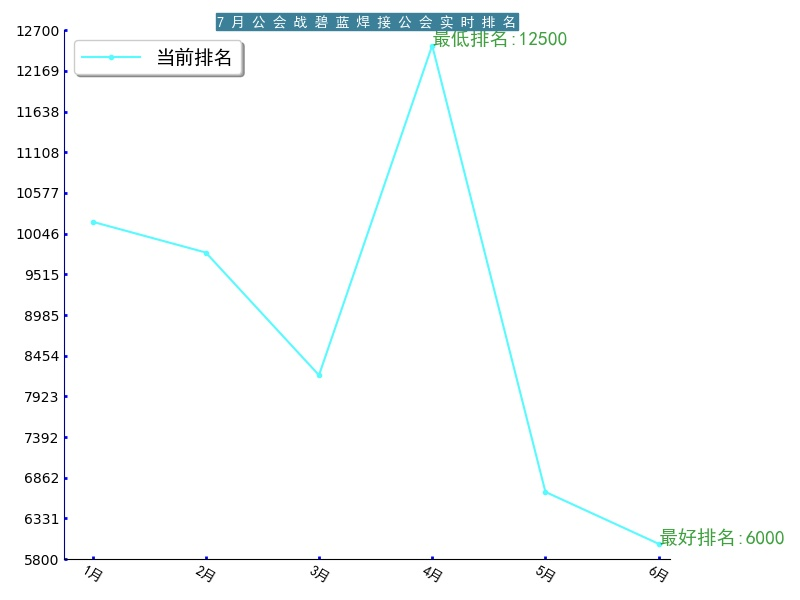
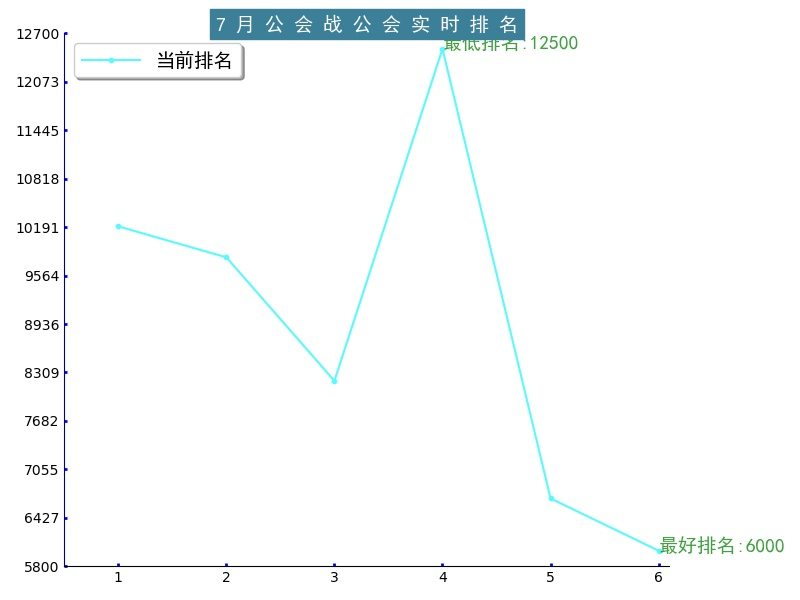
修正了若干bug

diff --git a/pcr/plugins/record_send/__init__.py b/pcr/plugins/record_send/__init__.py
@@ -8,7 +8,7 @@ from nonebot.command.argfilter import extractors, validators
 from nonebot import on_natural_language, NLPSession, IntentCommand
 
 
-@on_command('change_character', aliases=('更换声源', '换声', '修改声源', '选择声源'), only_to_me=False, permission=perm.SUPERUSER)
+@on_command('change_character', aliases=('更换声源', '换声', '修改声源', '选择声源'), only_to_me=False)
 async def change_character(session: CommandSession):
     group_id = session.event.group_id
     file_name = os.path.join(os.path.dirname(__file__), 'recording.json').replace('\\', '/')
@@ -92,37 +92,39 @@ async def change_character(session: CommandSession):
 
 @on_command('send_record', aliases=('发语音'), only_to_me=False)
 async def send_record(session: CommandSession):
-    if session.event.group_id in config.PRIMARY_GROUP_ID:
-        print('1')
-        file = os.path.join(os.path.dirname(__file__), 'recording.json').replace('\\', '/')
-        if not os.path.isfile(file):
-            await session.send('请指挥官先执行一遍[选择声源]命令喵~')
-            return
-        with open(file, 'r') as f:
-            data = json.load(f)
-        print('2')
-        print(data)
-        if data:
-            for record in data['record']:
-                is_find_group = False
-                if record['group_id'] == session.event.group_id:
-                    is_find_group = True
-                    dir_name = record['character'] + '_voice'
-                    bot = nonebot.get_bot()
-                    try:
-                        rls = os.listdir(os.path.join(config.CQ_SOURCE_PATH, 'record', dir_name))
-                    except:
-                        await session.send('指挥官要找的语音资源暂时不存在的喵~请尝试使用[更换声源]命令进行操作喵')
-                    record_file = os.path.join(f'\{dir_name}',
-                                               rls[r.randint(0, len(rls) - 1)])
-                    print(session.event.group_id)
+    print('1')
+    file = os.path.join(os.path.dirname(__file__), 'recording.json').replace('\\', '/')
+    if not os.path.isfile(file):
+        await session.send('请指挥官先执行一遍[选择声源]命令喵~')
+        return
+    with open(file, 'r') as f:
+        data = json.load(f)
+    print('2')
+    print(data)
+    if data:
+        is_find_group = False
+        for record in data['record']:
 
-                    await bot.send_group_msg(group_id=session.event.group_id,
-                                             message=f'[CQ:record,file={record_file}]')
-            if not is_find_group:
-                await session.send('指挥官,请使用[更换声源]命令对该群语音状态初始化喵~')
-        else:
+            if record['group_id'] == session.event.group_id:
+                is_find_group = True
+                dir_name = record['character'] + '_voice'
+                bot = nonebot.get_bot()
+                try:
+                    rls = os.listdir(os.path.join(config.CQ_SOURCE_PATH, 'record', dir_name))
+                except:
+                    await session.send('指挥官要找的语音资源暂时不存在的喵~请尝试使用[更换声源]命令进行操作喵')
+                record_file = os.path.join(f'\{dir_name}',
+                                           rls[r.randint(0, len(rls) - 1)])
+                print(session.event.group_id)
+
+                await bot.send_group_msg(group_id=session.event.group_id,
+                                         message=f'[CQ:record,file={record_file}]')
+        if not is_find_group:
+            print('3')
             await session.send('指挥官,请使用[更换声源]命令对该群语音状态初始化喵~')
+    else:
+        print('4')
+        await session.send('指挥官,请使用[更换声源]命令对该群语音状态初始化喵~')
 
 
 @on_natural_language(keywords={'语音'}, only_to_me=False)
@@ -133,19 +135,18 @@ async def _(session: NLPSession):
 
 @on_command('qielu', aliases=('切噜', 'qielu'), only_to_me=False)
 async def qielu(session: CommandSession):
-    if session.event.group_id in config.PRIMARY_GROUP_ID:
-        print(session.event)
-        sender_id = session.event['sender']['user_id']
-        print(sender_id)
-        image_dir = os.path.join(config.CQ_SOURCE_PATH, 'image', 'qielu')
-        print(os.listdir(image_dir))
-        print(r.randint(0, len(os.listdir(image_dir)) - 1))
-        file = os.listdir(image_dir)[r.randint(0, len(os.listdir(image_dir)) - 1)]
-        file_path = os.path.join('qielu', file)
-        message = f'[CQ:at,qq={sender_id}]切噜噜~♫~(=^･ω･^)ﾉ\n' \
-                  f'[CQ:image,file={file_path}]'
-        await session.send(message)
-        await session.send('[CQ:record,file=切噜~.mp3]')
+    print(session.event)
+    sender_id = session.event['sender']['user_id']
+    print(sender_id)
+    image_dir = os.path.join(config.CQ_SOURCE_PATH, 'image', 'qielu')
+    print(os.listdir(image_dir))
+    print(r.randint(0, len(os.listdir(image_dir)) - 1))
+    file = os.listdir(image_dir)[r.randint(0, len(os.listdir(image_dir)) - 1)]
+    file_path = os.path.join('qielu', file)
+    message = f'[CQ:at,qq={sender_id}]切噜噜~♫~(=^･ω･^)ﾉ\n' \
+              f'[CQ:image,file={file_path}]'
+    await session.send(message)
+    await session.send('[CQ:record,file=切噜~.mp3]')
 
 
 @on_natural_language(keywords={"切噜", "qielu"}, only_to_me=False)

diff --git a/pcr/plugins/manage_group_members/__init__.py b/pcr/plugins/manage_group_members/__init__.py
@@ -1,0 +1,80 @@
+from nonebot import on_command, CommandSession
+from data import init_database
+import nonebot
+import config
+from data.user import User
+
+
+@on_command('add_group_members', aliases=['添加成员', '添加群成员', '更新群成员'], only_to_me=False)
+async def add_group_members(session: CommandSession):
+    group_id = session.event.group_id
+    bot = nonebot.get_bot()
+    group_member_list = await bot.get_group_member_list(group_id=group_id)
+
+    c = init_database.get_connection()
+    cursor = c.cursor()
+    cursor.execute('DELETE FROM player_list WHERE group_id=%s', (group_id,))
+    c.commit()
+    member_str = ''
+    for member in group_member_list:
+        qq_id = member['user_id']
+        if qq_id == config.SELF_ID:
+            continue
+        qq_name = member['card']
+        if len(qq_name) == 0:
+            qq_name = member['nickname']
+            member_str += qq_name + ', '
+
+        role = member.get('role', 'member')
+        cursor.execute('INSERT INTO player_list (group_id, qq_id, qq_name, player_name, role) '
+                       'VALUES (%s, %s, %s, %s, %s)',
+                       (group_id, qq_id, qq_name, qq_name, role))
+    print(group_member_list)
+    c.commit()
+    await session.send('公会成员更新完成了喵~\n'
+                       '当前成员：' + member_str)
+
+
+@on_command('list_group_members', aliases=['公会成员', '成员列表'], only_to_me=False)
+async def add_group_members(session: CommandSession):
+    group_id = session.event.group_id
+
+    c = init_database.get_connection()
+    cursor = c.cursor()
+    cursor.execute('SELECT * FROM player_list WHERE group_id=%s', (group_id,))
+    message = '下面是当前的公会成员喵：\n'
+    for index, member_record in enumerate(cursor.fetchall(), start=1):
+        member = User(member_record)
+        message += str(index) + '. ' + member.qq_name
+        message += '，游戏名：' + member.player_name
+        message += '，id: ' + member.id + '\n'
+
+    message += '可以通过【踢出 id】指令来删除不在公会的成员喵~'
+    await session.send(message)
+
+
+@on_command('delete_group_members', aliases=['删除成员', '删除群成员', '提出群成员', '踢出'], only_to_me=False)
+async def delete_group_members(session: CommandSession):
+    group_id = session.event.group_id
+
+    c = init_database.get_connection()
+    cursor = c.cursor()
+
+    to_delete = session.state['id_list']
+    success_list = fail_list = []
+
+    result = cursor.execute('DELETE FROM player_list '
+                            'WHERE group_id=%s AND ', (group_id, ))
+    c.commit()
+    member_str = ''
+
+@delete_group_members.args_parser
+async def _(session: CommandSession):
+    stripped_arg = session.current_arg_text.strip()
+
+    id_list = []
+    for arg in stripped_arg.split(' '):
+        if arg.isdigit():
+            id_list.append(arg)
+
+    session.state['id_list'] = id_list

diff --git a/pcr/plugins/settings.py b/pcr/plugins/settings.py
@@ -3,13 +3,27 @@ from data.damage import delete_all_records
 from data.json.json_editor import JSONEditor
 
 
-@on_command('stop_fetching', aliases='停止抓取', only_to_me=True, permission=perm.SUPERUSER)
+@on_command('stop_fetching', aliases='停止抓取', only_to_me=False, permission=perm.SUPERUSER)
 async def stop_fetching(session: CommandSession):
-    JSONEditor(session.event.group_id).set_fetch_status(False)
+    group_id = session.event.group_id
+    if not group_id or len(group_id) == 0:
+        if session.event.user_id == 540349946:
+            group_id = 967350580
+        elif session.event.user_id == 353884697:
+            group_id = 1043493394
+
+    JSONEditor(group_id).set_fetch_status(False)
     await session.send('停止抓取了喵~')
 
 
-@on_command('start_fetching', aliases='开始抓取', only_to_me=True, permission=perm.SUPERUSER)
+@on_command('start_fetching', aliases='开始抓取', only_to_me=False, permission=perm.SUPERUSER)
 async def start_fetching(session: CommandSession):
-    JSONEditor(session.event.group_id).set_fetch_status(True)
+    group_id = session.event.group_id
+    if not group_id or len(group_id) == 0:
+        if session.event.user_id == 540349946:
+            group_id = 967350580
+        elif session.event.user_id == 353884697:
+            group_id = 1043493394
+
+    JSONEditor(group_id).set_fetch_status(True)
     await session.send('开始抓取了喵~')

diff --git a/pcr/plugins/manage_group/__init__.py b/pcr/plugins/manage_group/__init__.py
@@ -11,10 +11,9 @@ import asyncio
 @on_notice('group_increase')
 async def welcome_new_member(session: NoticeSession):
     # 群成员增加时自动触发欢迎信息功能
-    if session.event.group_id in config.:
-        print(session.event)
-        await session.send(f"欢迎新的指挥官@{session.event.user_id}加入群喵~\n"
-                           + config.WELCOME_MESSAGE)
+    print(session.event)
+    await session.send(f"欢迎新的指挥官@{session.event.user_id}加入群喵~\n"
+                       + config.WELCOME_MESSAGE)
 
 
 @on_command('feedback', aliases=('bug反馈', '功能反馈'), only_to_me=False)
@@ -42,6 +41,7 @@ async def feedback_bugs(session: CommandSession):
         else:
             await session.send("QAQ喵，发送失败了喵，重新试试喵")
 
+
 # bot = nonebot.get_bot()
 # @bot.on_message()
 # async def demo(event):
@@ -66,7 +66,9 @@ async def feedback_bugs(session: CommandSession):
 #         print(msg_id['message_id'])
 #         await bot.delete_msg(message_id=msg_id['message_id'],self_id=3473890852)
 #         # await bot.delete_msg(**event)'''
-bot= nonebot.get_bot()
+bot = nonebot.get_bot()
+
+
 @bot.on_message()
 async def demo(event):
     if event['message_type'] == 'group' and event['group_id'] in config.GROUP_ID:

diff --git a/pcr/plugins/report_team_rank/team_rank_quota.py b/pcr/plugins/report_team_rank/team_rank_quota.py
@@ -37,12 +37,12 @@ class TeamRankChart(object):
             self.ax.set_yticks(np.linspace(rmax + 200, rmin - 200, gap))
         else:
             self.ax.set_yticks(np.linspace(rmax + 200, rmin - 200, 12))
-        self.ax.set_xticklabels(self.time, fontproperties="SimHei", fontsize=12, rotation=-30)
+        # self.ax.set_xticklabels(self.time, fontproperties="SimHei", fontsize=12, rotation=-30)
         # 设置刻度线
         self.ax.tick_params(left=True, direction="in", length=2, width=2, color='b', labelsize="medium")
         self.ax.tick_params(bottom=True, direction="in", length=2, width=2, color='b', labelsize="medium")
         # 设置标题
-        self.ax.set_title(f"{datetime.now().month} 月 公 会 战 公 会 实 时 排 名", fontsize=36, backgroundcolor='#3c7f99',
+        self.ax.set_title(f"{datetime.now().month} 月 公 会 战 公 会 实 时 排 名", fontsize=14, backgroundcolor='#3c7f99',
                           fontweight='bold', color='white', verticalalignment="center", fontproperties="SimHei")
         # 去掉上右边框
         self.ax.spines["left"].set_color("darkblue")

diff --git a/data/damage.py b/data/damage.py
@@ -29,15 +29,19 @@ def add_record(records: list, group_id: int, force=False) -> (list, bool):
                                         (record[2], group_id))
         if not force and existing_count > 0:
             continue  # 如果不是强制记录并且 Record 已存在
-        added_records.append(record)
         record.append(today)
         record.append(group_id)
-        cursor.execute("INSERT INTO record (username, target, damage, date, group_id) VALUES "
-                       "(%s, %s, %s, %s, %s)", tuple(record))
-        print('DAMAGE ' + str(int(record[2])))
+
+        remaining_health = json_editor.get_remaining_health()
         did_kill = json_editor.add_damage(damage=int(record[2]))
         if did_kill:
             killed_boss = True
+            record[2] = remaining_health
+
+        cursor.execute("INSERT INTO record (username, target, damage, date, group_id) VALUES "
+                       "(%s, %s, %s, %s, %s)", tuple(record))
+        added_records.append(record)
+        print('DAMAGE ' + str(int(record[2])))
 
     c.commit()
     return added_records, killed_boss

diff --git a/pcr/plugins/report_team_rank/__init__.py b/pcr/plugins/report_team_rank/__init__.py
@@ -10,7 +10,7 @@ import os
 async def query_team_rank(session: CommandSession):
     cursor = get_connection().cursor()
     group_id: int = session.event.group_id
-    cursor.execute('select * from rank_record WHERE group_id=%s', (group_id, ))
+    cursor.execute('select * from rank_record WHERE group_id=%s', (group_id,))
     result = cursor.fetchall()
     times = []
     ranks = []
@@ -18,10 +18,11 @@ async def query_team_rank(session: CommandSession):
         """times = [t[0] for t in result]
         ranks = [r[1] for r in result]"""
         for row in result:
-            if len(ranks) > 0 and (row[1]>sum(ranks)//len(ranks)+20000 or row[1]<sum(ranks)//len(ranks)-5000):
+            if len(ranks) > 0 and (
+                    row[2] > sum(ranks) // len(ranks) + 20000 or row[2] < sum(ranks) // len(ranks) - 5000):
                 continue
-            times.append(row[0])
-            ranks.append(row[1])
+            times.append(row[1])
+            ranks.append(row[2])
     else:
         await session.send('暂时还没有公会排名记录的喵！>_<')
         return

diff --git a/pcr/plugins/attack_report/__init__.py b/pcr/plugins/attack_report/__init__.py
@@ -1,5 +1,4 @@
 from nonebot import on_command, CommandSession, on_natural_language, NLPSession, IntentCommand
-from data.damage import delete_all_records, add_record
 from data.attack_history import get_list_of_attacks
 from datetime import datetime, timedelta
 import jieba.posseg as psg
@@ -24,7 +23,7 @@ async def list_attack_detail(session: CommandSession):
         message += '还请多多' + custom.replace('了', '') + '喵！勤劳才会致富喵！'
         await session.send(message)
     else:
-        record_list: list = get_list_of_attacks(day)
+        record_list: list = get_list_of_attacks(day, group_id)
         count_list = count_attack_times(record_list)
         message = '已经有: \n'
         custom = session.state.get('custom', '出击')

diff --git a/server_app/report_rank/__init__.py b/server_app/report_rank/__init__.py
@@ -27,11 +27,11 @@ async def add_rank():
                    'ORDER BY date DESC LIMIT 1')
     previous_rank_record = cursor.fetchone()
     previous_rank = int(previous_rank_record[1])
-    rank_int = int(rank)
+    current_rank = int(rank)
     if previous_rank is not None:
-        if (previous_rank - 50) / rank_int > 5 or (previous_rank + 50) / rank_int < 0.2:
+        if (previous_rank - 50) / current_rank > 5 or (previous_rank + 50) / current_rank < 0.3:
             # This data is not right
-            return
+            return 'Failed!'
 
     date = datetime.datetime.now()
     date_int: int = get_date_int(date, with_hour=True)

diff --git a/pcr/plugins/rank.py b/pcr/plugins/rank.py
@@ -44,7 +44,7 @@ def calculate_rank(is_today: bool, group_id: int) -> list:
     if is_today:
         today = int(datetime.now().strftime("%Y%m%d"))
         cursor.execute('SELECT username, damage FROM record '
-                       'WHERE date=? AND group_id=%s', (today, group_id))
+                       'WHERE date=%s AND group_id=%s', (today, group_id))
         today_records = cursor.fetchall()
         today_rank_list = list_rank(today_records, group_id)
         return today_rank_list

diff --git a/pcr/plugins/self_introduction.py b/pcr/plugins/self_introduction.py
@@ -4,7 +4,4 @@ import config
 
 @on_command('self_introduction', aliases=['自我介绍', '来做个自我介绍'], only_to_me=False)
 async def self_introduction(session: CommandSession):
-    if session.event.group_id not in config.PRIMARY_GROUP_ID and session.event['message_type'] != 'private':
-        print('NOT IN SELECTED GROUP')
-        return
     await session.send(config.SELF_INTRODUCTION)

diff --git a/server_app/auth/auth.py b/server_app/auth/auth.py
@@ -41,7 +41,7 @@ def sign_up():
 @auth_blueprint.route('/login', methods=['POST'])
 def login():
     try:
-        username = request.form["username"]
+        username = request.form["qq_id"]
         password: str = request.form["password"]
     except KeyError:
         return jsonify({"msg": "Username or Password is incorrect"}), 403
